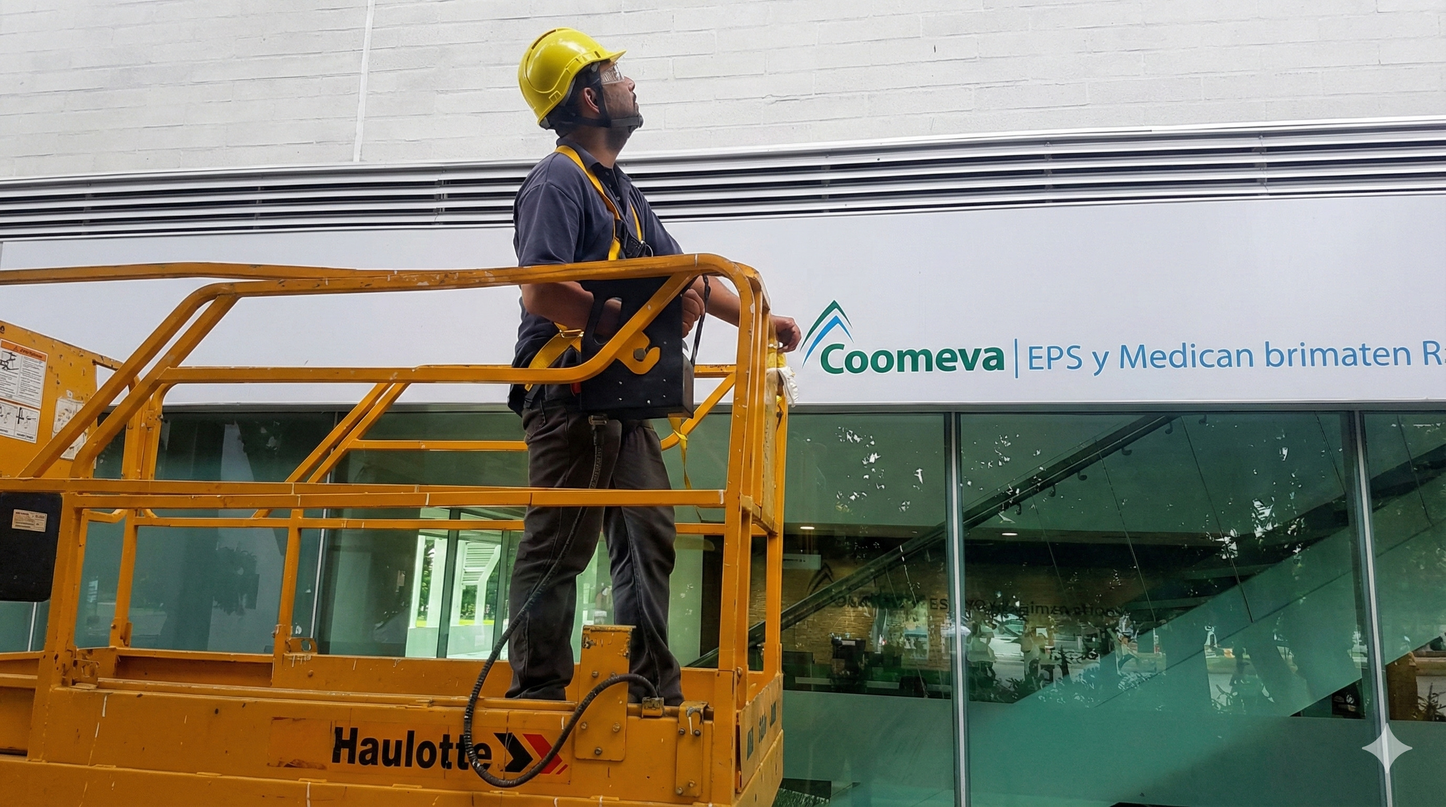
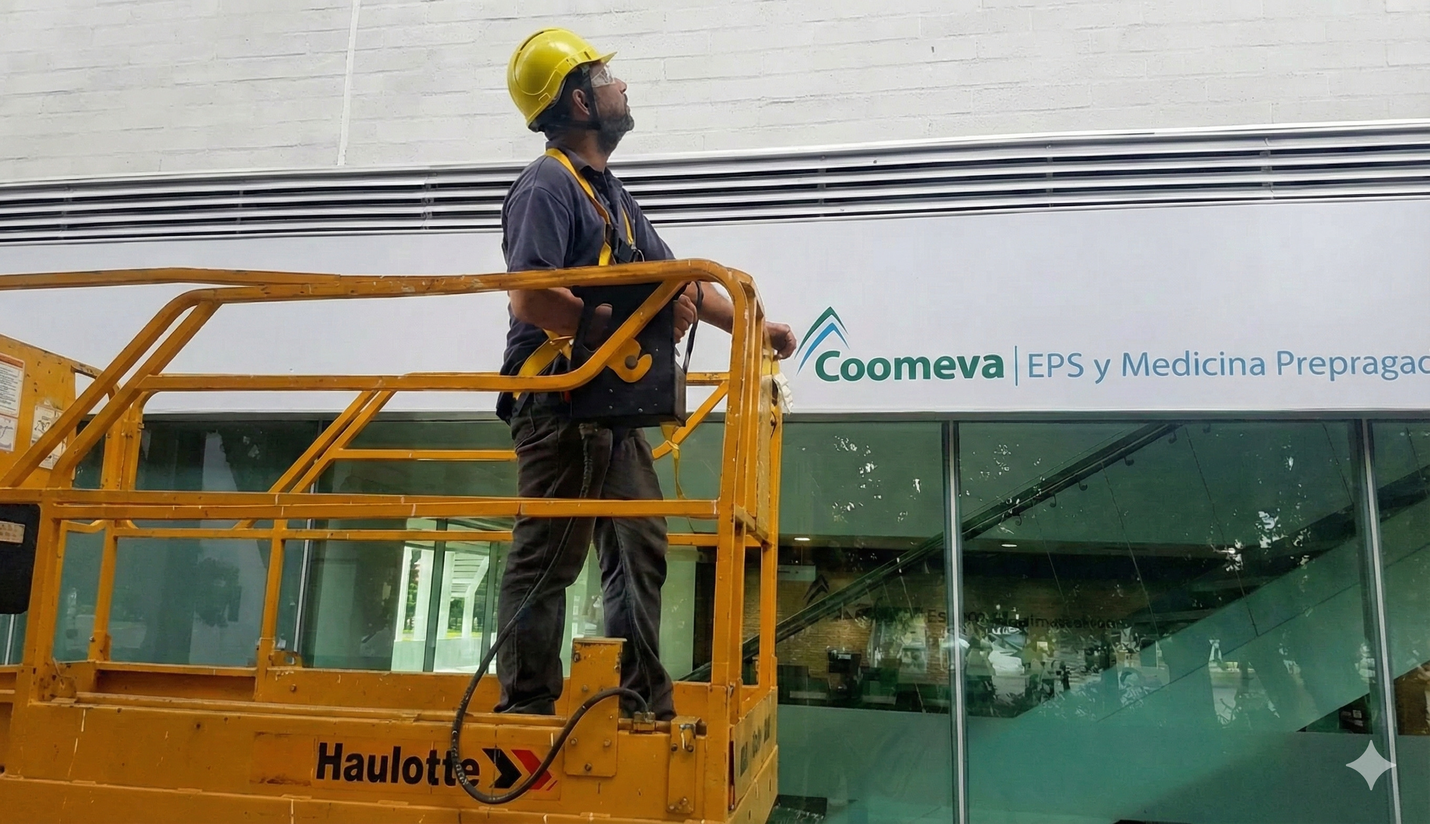
Ya mejor todo lo de los backgrounds en home

Changed region(s): [[0.0, 0.0312, 1.0, 1.0], [0.4688, 0.1875, 0.5, 0.2188], [0.25, 0.0312, 0.2812, 0.0625]]

diff --git a/Frontend/src/components/common/BackgroundHome.jsx b/Frontend/src/components/common/BackgroundHome.jsx
@@ -27,7 +27,7 @@ const imagePositions = [
   'center', // home2
   'center', // home3
   'center', // home4
-  'top',    // home5 - parte de arriba
+  '15%',    // home5 - un poco más abajo que top
   'bottom', // home6 - parte de abajo
   'center', // home7
   'center', // home8
